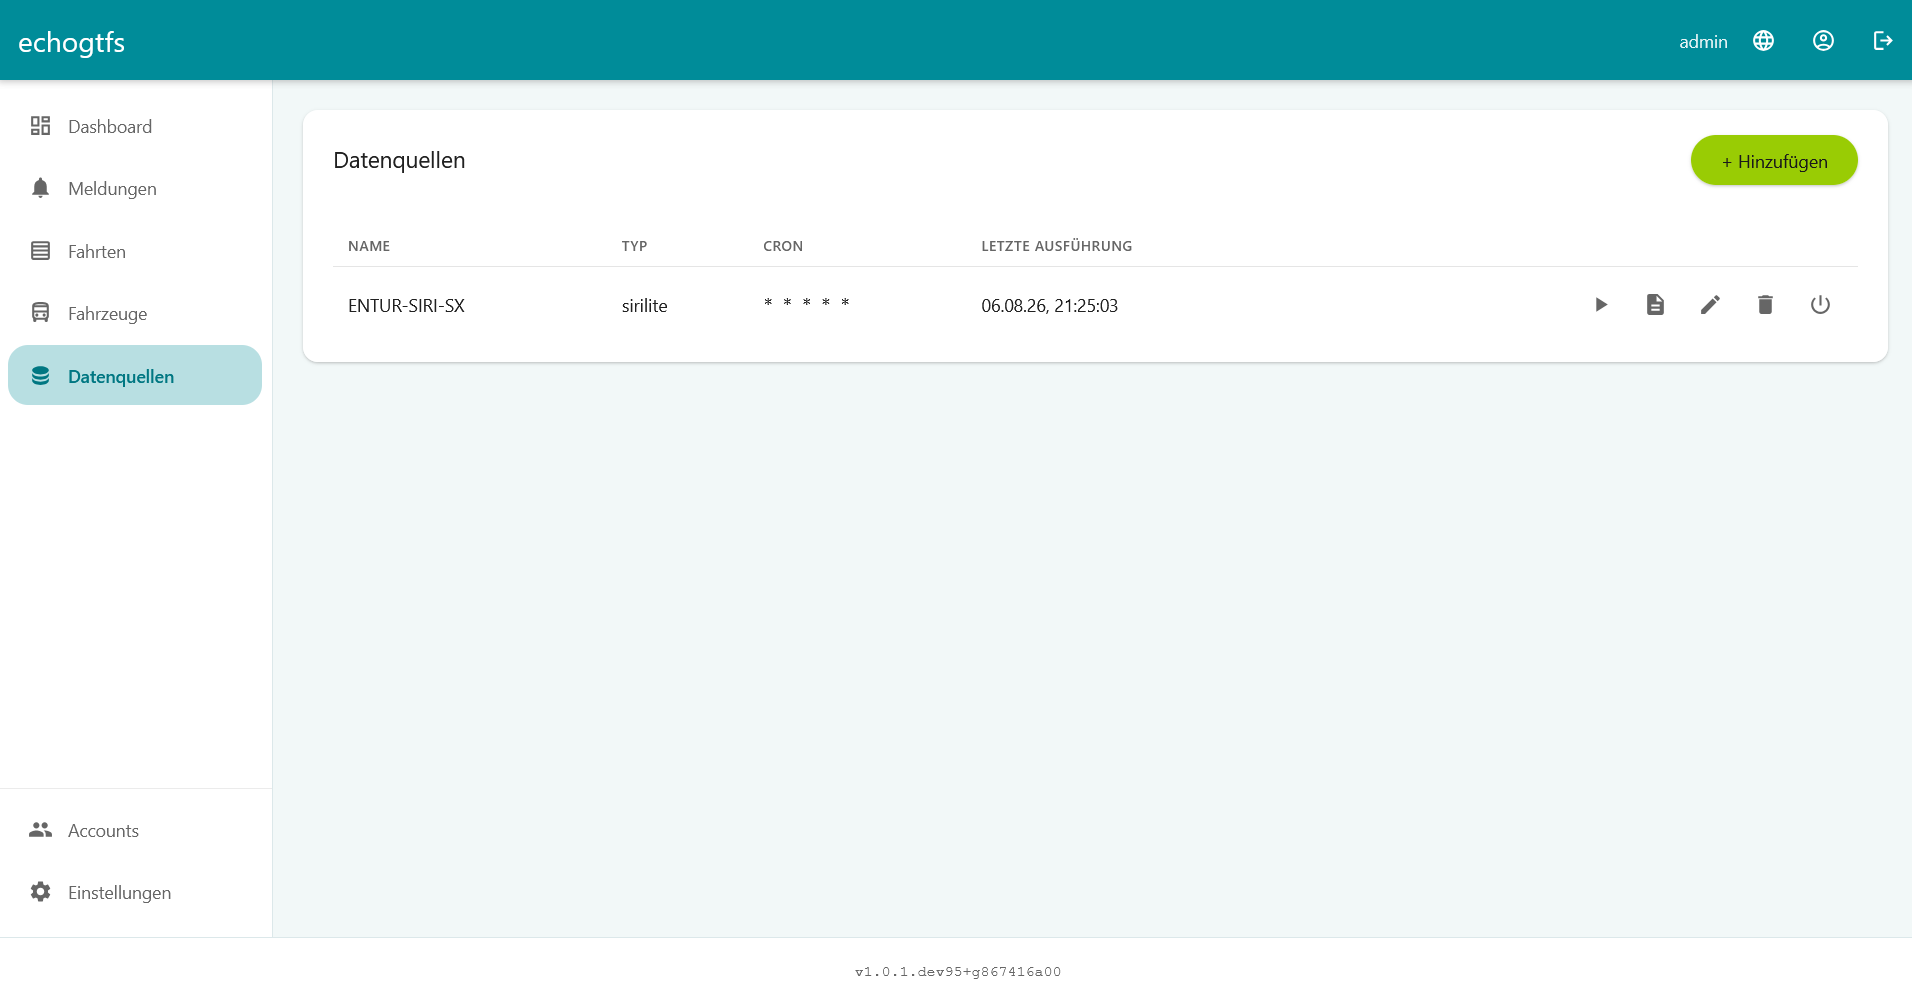
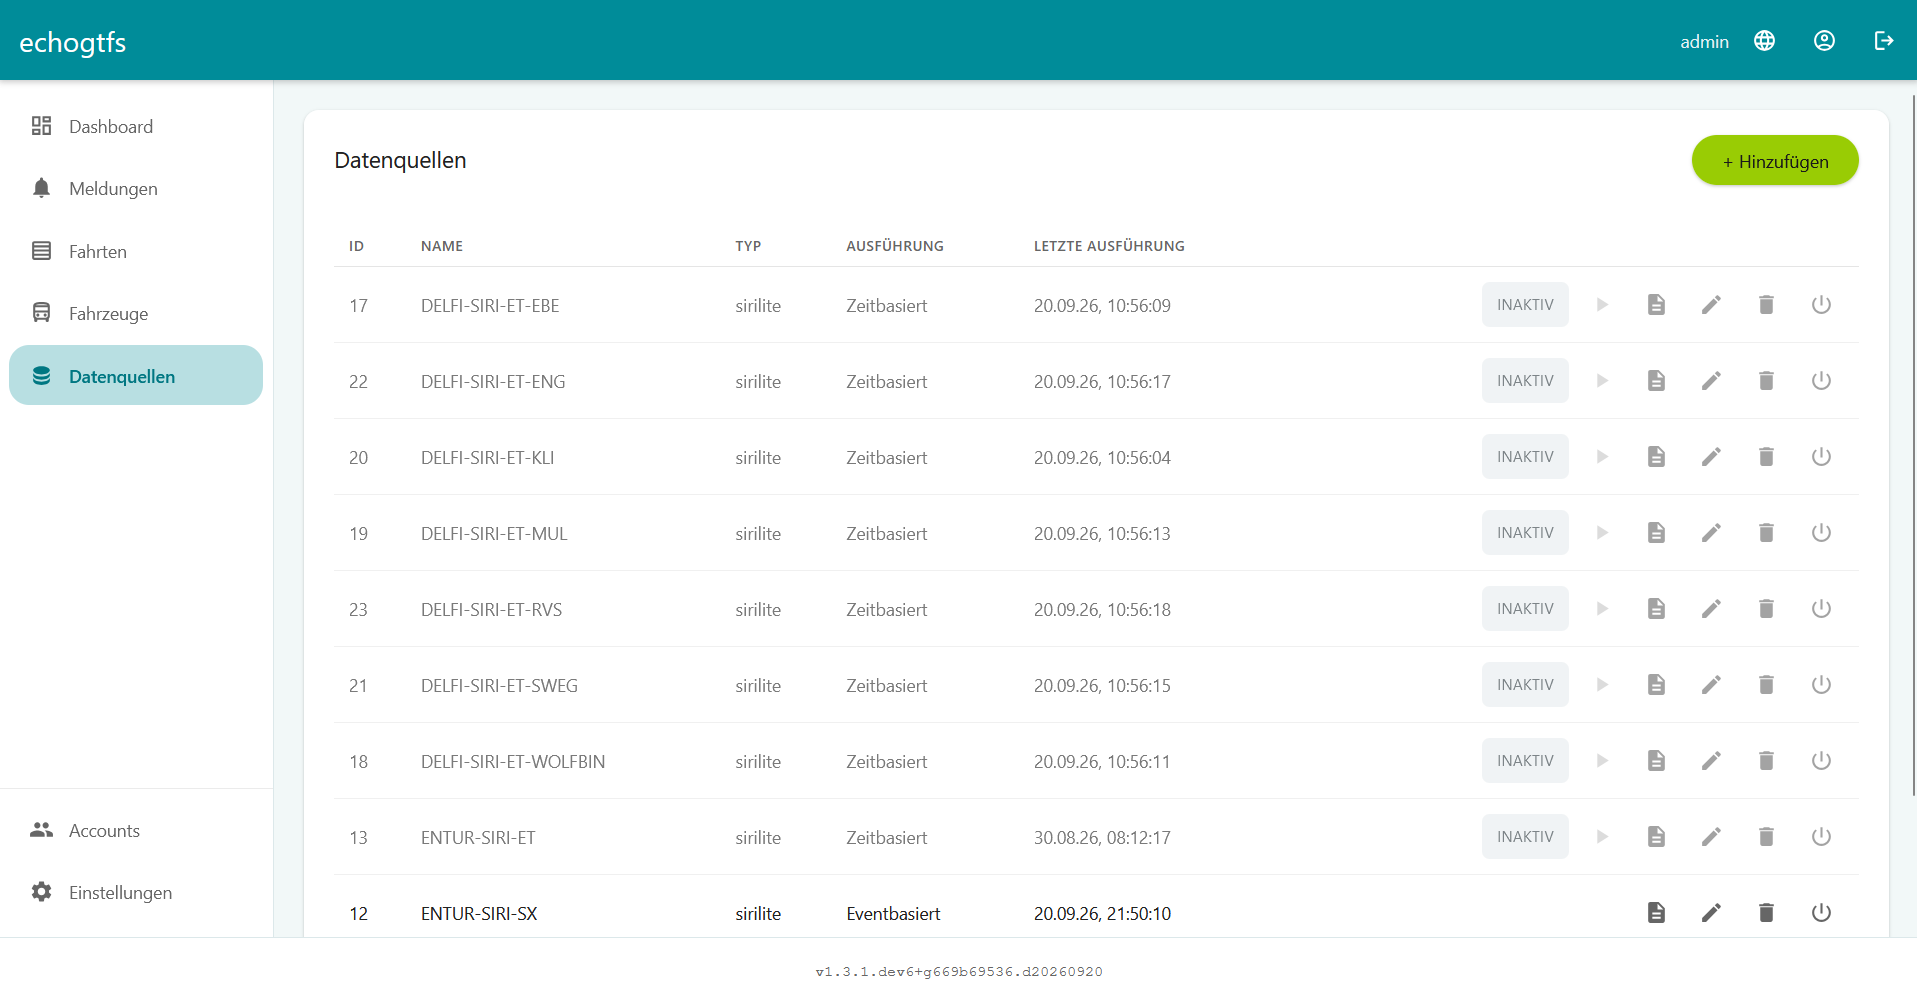
updated public documentation for push API

diff --git a/docs/manual/source/datasources/general.md b/docs/manual/source/datasources/general.md
@@ -19,7 +19,7 @@ Um Datenquellen zu verwalten, wechseln Sie in den Bereich "Datenquellen" im Seit
 - Über den "Deactivate"-Button können **bestehende Datenquellen deaktiviert / aktiviert** werden
 
 ```{note}
-Eine deaktivierte Datenquelle bleibt im System enthalten, wird allerdings vom Scheduler nicht ausgeführt. Bei der Deaktivierung einer Datenquelle werden alle Objekte (Meldungen, Fahrten, Fahrzeuge), die in Zusammenhang mit dieser Datenquelle stehen, gelöscht. Nach der Aktivierung wird die Datenquelle zum nächsten regulären Zeitpunkt vom Scheduler ausgeführt.
+Eine deaktivierte Datenquelle bleibt im System enthalten, wird allerdings vom Scheduler nicht ausgeführt. Bei der Deaktivierung einer Datenquelle werden alle Objekte (Meldungen, Fahrten, Fahrzeuge), die in Zusammenhang mit dieser Datenquelle stehen, gelöscht. Nach der Aktivierung wird die Datenquelle zum nächsten regulären Zeitpunkt oder eventbasiert über die {ref}`h-push-api-push-api` vom Scheduler ausgeführt.
 ```
 
 (h-datasources-general-edit)=
@@ -35,8 +35,9 @@ Um eine neue Datenquelle anzulegen, klicken Sie auf den "Hinzufügen"-Button obe
 Für jede Datenquelle können folgende Informationen gepflegt werden:
 - **Name**: _eindeutige Bezeichnung_ innerhalb des Systems für die Datenquelle
 - **Adapter**: Typ der Datenquelle (GTFS-RT, SIRI-Lite, SIRI-...)
-- **Endpunkt-URL**: URL, von der die Daten bei der Ausführung der Datenquelle abgerufen werden
-- **Cron-Ausdruck**: Cron-Ausdruck zur Angabe der gewünschten Ausführungsintervalle
+- **Endpunkt-URL**: URL, von der die Daten bei der Ausführung der Datenquelle abgerufen werden. Optional bei eventbasierten Datenquellen, je nach verwendetem Adapter-Typ
+- **Ausführungsart**: Ausführungsart der Datenquelle. Zeitbasiert = über Cron-Ausdruck, Eventbasiert = über {ref}`h-push-api-push-api`
+- **Cron-Ausdruck**: Cron-Ausdruck zur Angabe der gewünschten Ausführungsintervalle. Nur relevant bei zeitbasierter Ausführung
 - **Verfahrensweise bei ungültigen Bezügen**: Angabe zum Umgang mit Objekten mit ungültigen Bezügen
 - **Aktiv**: Aktivierung oder Deaktivierung der Datenquelle
 - **Log Dumps**: Aktivierung oder Deaktivierung der Log-Dump, bei Deaktivierung werden nur die Log-Metadaten gespeichert
@@ -46,6 +47,14 @@ Neben diesen Parametern können in Abhängigkeit vom Adapter-Typ weitere, dynami
 Für jede Datenquelle können außerdem sogenannte **Mappings** und **Anreicherungen** definiert werden.
 
 Bestätigen Sie den Dialog mit Klick auf "Speichern". Im Anschluss wird die Datenquelle in der Übersicht angezeigt und kann sofort verwendet werden.
+
+(h-datasources-time-vs-event-based)=
+
+### Zeit- und Eventbasierte Ausführung
+
+Standardmäßig werden Datenquellen zeitbasiert ausgeführt. Dabei werden sie vom internen Scheduler zu regelmäßgen, über den Cron-Ausdruck definierten Zeitpunkten ausgeführt. Die Daten werden dabei von EchoGTFS vom Quellsystem abgefragt.
+
+Bei besonders zeitkritischen Datenquellen (z.B. Fahrzeugpositionen) besteht alternativ die Möglichkeit, die Datenquelle eventbasiert auszuführen. Dabei werden die Daten aktiv vom Quellsystem an den Endpunkt der {ref}`h-push-api-push-api` für die jeweilige Datenquelle übermittelt und die Datenquelle unmittelbar ausgeführt.
 
 (h-datasources-invalid-reference-policies)=
 

diff --git a/docs/manual/source/administration/system-settings.md b/docs/manual/source/administration/system-settings.md
@@ -20,20 +20,32 @@ Im Abschnitt "Allgemein" und "Erscheinungsbild" können Sie folgende Einstellung
 
 (h-system-settings-gtfs-rt)=
 
-## GTFS-Realtime
+## Konfiguration GTFS-Realtime
 
 Im Abschnitt "GTFS-Realtime" können Sie folgende Einstellungen vornehmen:
 
 - **GTFS-RT ServiceAlerts Pfad**: Pfad zum GTFS-RT Endpunkt für ServiceAlerts
 - **GTFS-RT TripUpdates Pfad**: Pfad zum öffentlichen GTFS-RT Endpunkt für TripUpdates
 - **GTFS-RT VehiclePositions Pfad**: Pfad zum öffentlichen GTFS-RT Endpunkt für VehiclePositions
-- **BasicAuth Benutzername:** _(optional)_ Benutzername um die GTFS-RT Endpunkte mit BasicAuth abzusichern
-- **BasicAuth Passwort:** _(optional)_ Password um die GTFS-RT Endpunkte mit BasicAuth abzusichern
+- **BasicAuth Benutzername:** _(optional)_ Benutzername um die GTFS-RT Endpunkte mit BasicAuth abzusichern. Leer lassen, um BasicAuth für die GTFS-RT Endpunkte zu deaktivieren
+- **BasicAuth Passwort:** _(optional)_ Passwort um die GTFS-RT Endpunkte mit BasicAuth abzusichern. Leer lassen, um das bestehende Passwort weiter zu verwenden
 - **Fahrten ohne Echtzeitdaten aus TripUpdates ausschließen**: Schließt überwachte Fahrten (siehe dazu {ref}`h-trips-trips`) aus dem GTFS-RT feed aus
+
+(h-system-settings-push-api)=
+
+## Konfiguration Push-API
+
+Im Abschnitt "Push-API" können Sie folgende Einstellungen vornehmen:
+
+- **Push-API Aktiv**: Schaltet die Push-API für eventbasierte Datenquellen frei
+- **BasicAuth Benutzername:** _(optional)_ Benutzername umd ie Push-API mit BasicAuth abzusichern. Leer lassen, um BasicAuth für die Push-API zu deaktivieren
+- **BasicAuth Passwort:** _(optional)_ Passwort um die Push-API mit BasicAuth abzusichern. Leer lassen, um das bestehende Passwort weiter zu verwenden
+
+Die Push-API wird benötigt, um eventbasierte Schnittstellen aus externen Systemen ansprechen zu können.
 
 (h-system-settings-cleanup)=
 
-## Datenbereinigung
+## Konfiguration Datenbereinigung
 
 Im Abschnitt "Datenbereinigung" können Sie das Verhalten des Berenigungs-Dienstes beeinflussen. Folgende Einstellungen stehen zur Verfügung:
 

diff --git a/docs/manual/source/administration/push-api.md b/docs/manual/source/administration/push-api.md
@@ -1,0 +1,35 @@
+(h-push-api-push-api)=
+
+# Push API
+
+Um Daten aus externen Systemen echtzeitnah in EchoGTFS importieren zu können, besteht die Möglichkeit, eventbasierte Datenquellen über die Push-API anzusprechen. 
+
+Die Push-API ist per default deaktiviert und muss in den Systemeinstellungen unter {ref}`h-system-settings-push-api` gesondert aktiviert werden.
+
+## Funktionsumfang
+
+Die Push-API ermöglicht das eventbasierte Ausführen einer Datenquelle. Dazu wird der dem Request der Payload übergeben, der anschließend von der Datenquelle verarbeitet werden soll. Die Datenquelle wird beim Aufruf synchron ausgeführt und das Ergebnis direkt an die aufrufende Instanz zurückgegeben.
+
+Die Push-API bietet folgende Endpunkte:
+
+- `POST /api/push/datasource/{dataSourceId}`: Ausführung der Datenquelle mit dem übergebenen Payload
+
+Die ID der Datenquelle kann in der Übersicht für Datenquellen ermittelt werden.
+
+## Restriktionen
+
+Bei der Ausführung von Datenquellen über die Push-API kann jede Datenquelle immer nur einmal gleichzeitig ausgeführt werden. Dadurch werden Interferenzen zwischen mehreren parallelen Durchläufen vermieden.
+
+## Technische Hinweise
+
+### Authentifizierung
+
+Für den Zugriff auf die Push-API werden in den Systemeinstellungen optional BasicAuth Zugangsdaten hinterlegt. Die Authentifizierung über einen regulären EchoGTFS User wird aktuell nicht unterstützt.
+
+### Swagger
+
+Die Push-API ist auch als OpenAPI-Spezifikation und Swagger-UI verfügbar. Hierzu muss in den Umgebungsvariablen von EchoGTFS die Variable `DOCS_ENABLED` auf `true` gesetzt werden. Anschließend ist die Swagger-UI unter `/api/swagger` erreichbar und kann auch für einfache Tests genutzt werden.
+
+```{warning}
+Die Swagger-UI sollte in Produktivumgebungen immer deaktiviert sein, um Sicherheitsrisiken zu minimieren.
+```

diff --git a/docs/manual/source/administration/monitoring-api.md b/docs/manual/source/administration/monitoring-api.md
@@ -10,9 +10,9 @@ Die Monitoring-API bietet stets Zugriff auf den **aktuellen Systemzustand**.
 
 Die Monitoring-API bietet drei wichtige Endpunkte:
 
-- `/api/monitoring/system`: Aktuell aktive Datenquellen und im Soll-Fahrplan importierte Linien zum Filtern der nachfolgenden beiden Endpunkte
-- `/api/monitoring/statistics`: Aktuelle KPIs bzw. Daten zur Berechnung von KPIs über den aktuellen Systemzustand
-- `/api/monitoring/conflicts`: Aktuell anliegende und erkannte Konflikte in den enthaltenen Daten
+- `GET /api/monitoring/system`: Aktuell aktive Datenquellen und im Soll-Fahrplan importierte Linien zum Filtern der nachfolgenden beiden Endpunkte
+- `GET /api/monitoring/statistics`: Aktuelle KPIs bzw. Daten zur Berechnung von KPIs über den aktuellen Systemzustand
+- `GET /api/monitoring/conflicts`: Aktuell anliegende und erkannte Konflikte in den enthaltenen Daten
 
 ## Restriktionen
 

diff --git a/docs/manual/source/administration/index.md b/docs/manual/source/administration/index.md
@@ -7,4 +7,5 @@ accounts
 system-settings
 system-copy
 monitoring-api
+push-api
 ```
